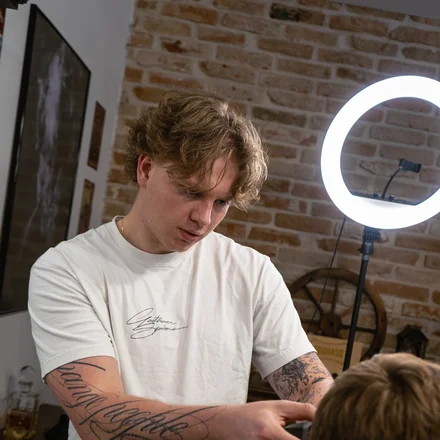
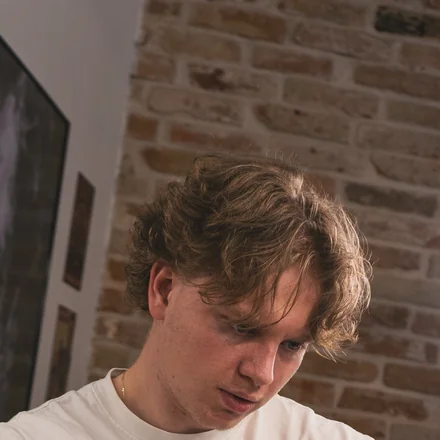
Update team photos and fix hero crop on 14" monitors
- Replace ondra.webp and tomas.webp with new 440x440 WebP crops
- Cap hero max-height at 42vw on 901-1599px viewports to prevent over-cropping on 14" screens

diff --git a/index.html b/index.html
@@ -1288,6 +1288,12 @@
       .gallery-grid { columns: 3; }
     }
 
+    @media (min-width: 901px) and (max-width: 1599px) {
+      #hero {
+        max-height: 42vw;
+      }
+    }
+
     @media (max-width: 900px) {
       .container { padding: 0 24px; }
       /* Header nav */
